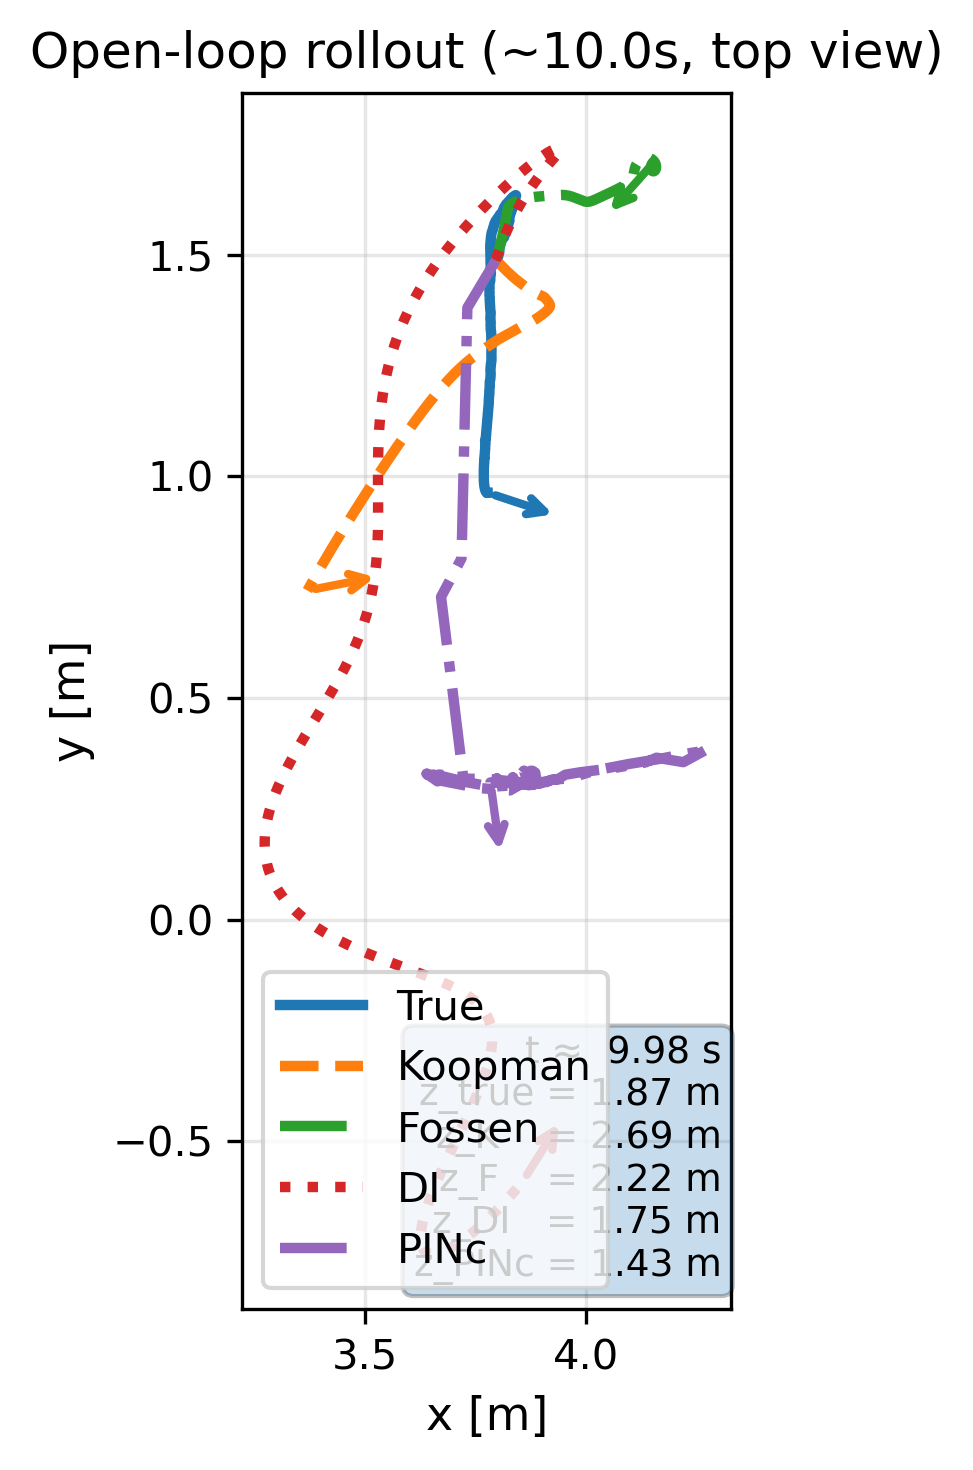
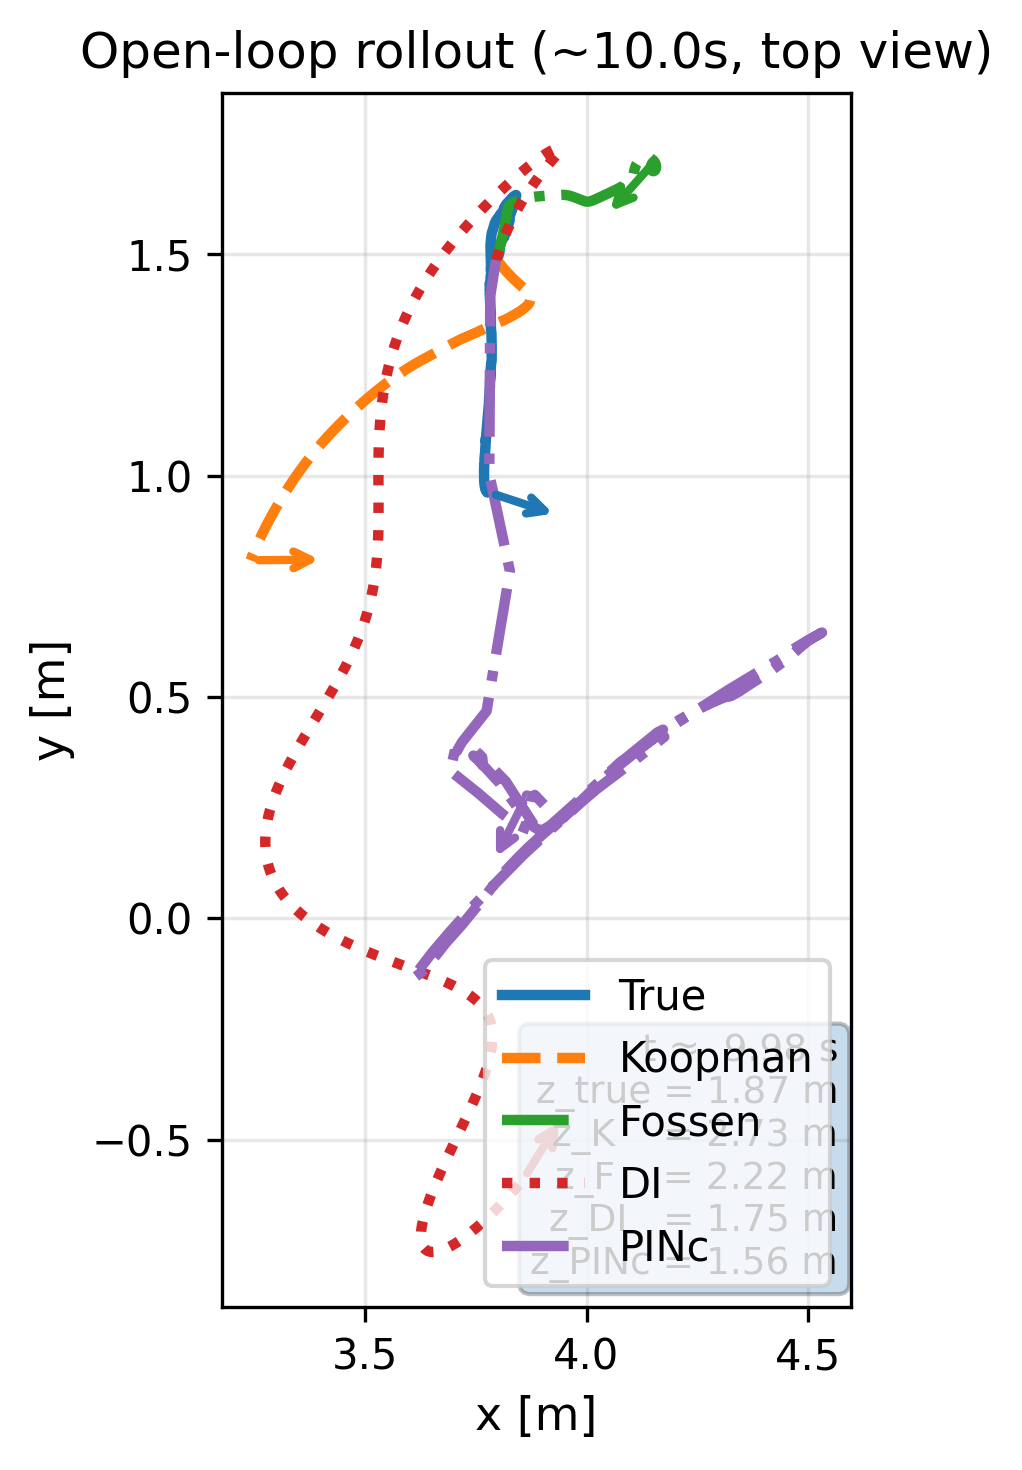
Added trained PINC

diff --git a/training/train_tank_brov2_full_comparison.py b/training/train_tank_brov2_full_comparison.py
@@ -48,7 +48,7 @@ PLOT_FIG_SECONDS = 10.0       # ~10s of open-loop rollout for 2D figure
 
 # PINc config
 PINc_HIDDEN = [64, 64, 64, 64]
-PINc_EPOCHS = 1000
+PINc_EPOCHS = 200
 PINc_BATCH = 256
 PINc_LR = 3e-3
 PINc_ROLLOUT_STEPS = 10
@@ -256,7 +256,7 @@ def animate_xy_five(
 
 
 # ------------------------------------------------------------------
-#  2D static figure for LaTeX (TRUE + 4 models, x–y with depths printed)
+#  2D static figure for LaTeX (TRUE + 4 models, x-y with depths printed)
 # ------------------------------------------------------------------
 def plot_2d_trajectories_with_depth(
     true_traj: np.ndarray,
@@ -269,7 +269,7 @@ def plot_2d_trajectories_with_depth(
     save_path: str = "media/true_vs_4models_2D.png",
 ):
     """
-    2D x–y plot of first ~`seconds` of open-loop rollout for TRUE + 4 models.
+    2D x-y plot of first ~`seconds` of open-loop rollout for TRUE + 4 models.
     Depth (z) and time printed bottom-right.
     Arrows at end of each trajectory indicate direction.
     """
